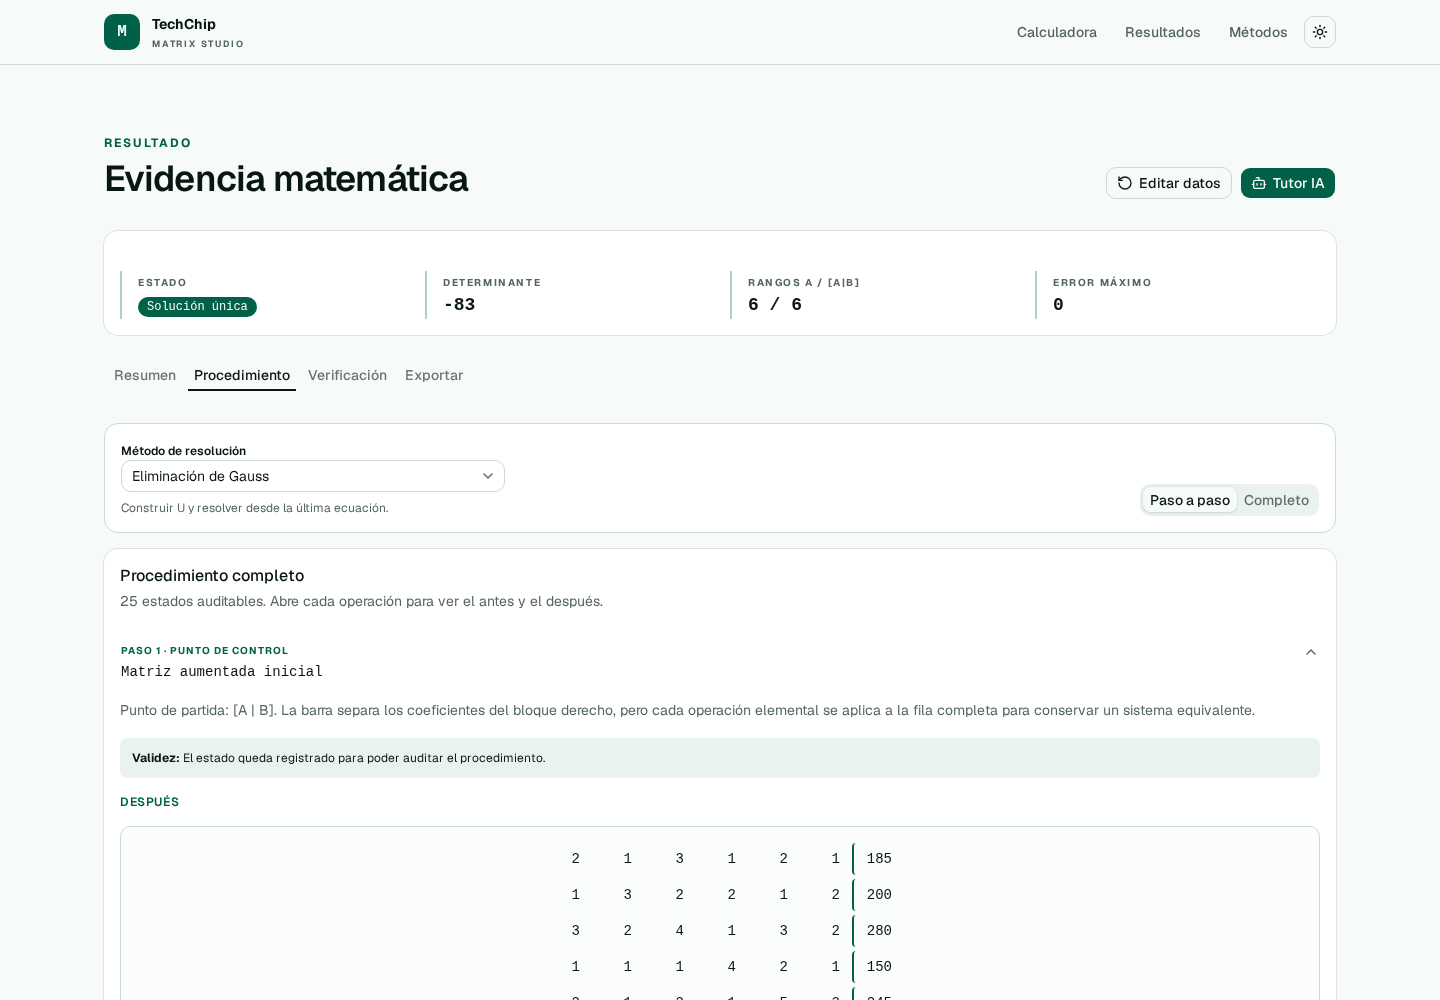
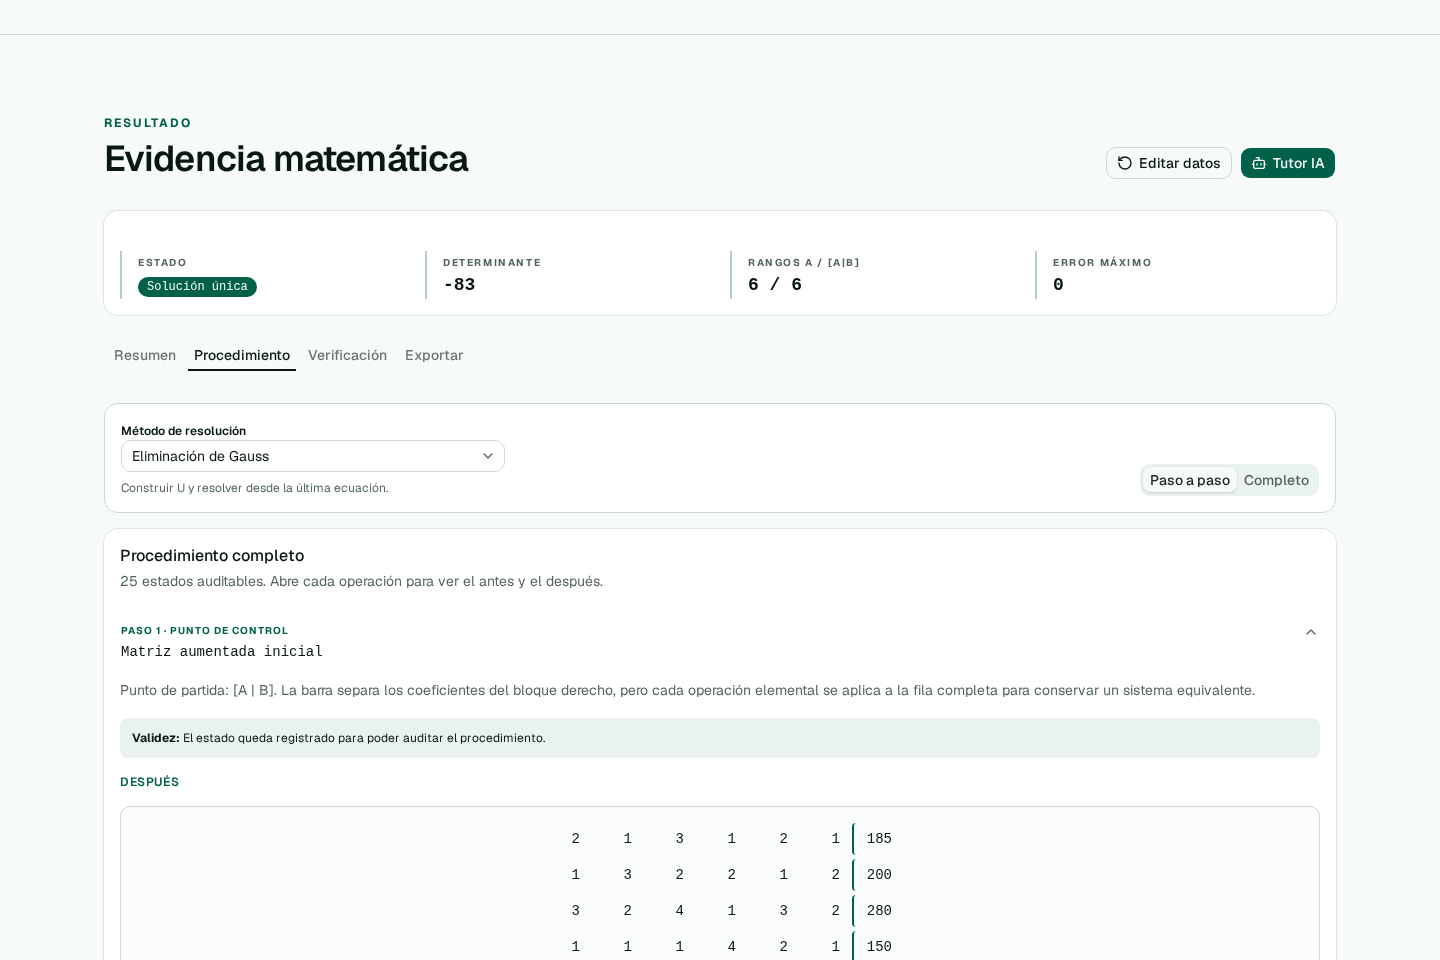
test(e2e): validar producción en claro oscuro y móvil

diff --git a/scripts/browser_check_vercel.py b/scripts/browser_check_vercel.py
@@ -60,6 +60,11 @@ def main() -> None:
         if page.evaluate("document.scrollingElement.scrollWidth > innerWidth + 2"):
             raise AssertionError("La página desborda horizontalmente en móvil")
         page.screenshot(path=str(output / "17_tailwind_movil_claro.png"), full_page=True)
+        page.get_by_role("button", name="Cambiar tema").click()
+        page.get_by_role("menuitem", name="Oscuro").click()
+        expect(page.locator("html")).to_have_class("dark")
+        page.wait_for_timeout(300)
+        page.screenshot(path=str(output / "18_tailwind_movil_oscuro.png"), full_page=True)
         browser.close()
     print("Vercel: interfaz, cálculo, pasos y viewport móvil verificados")
 
